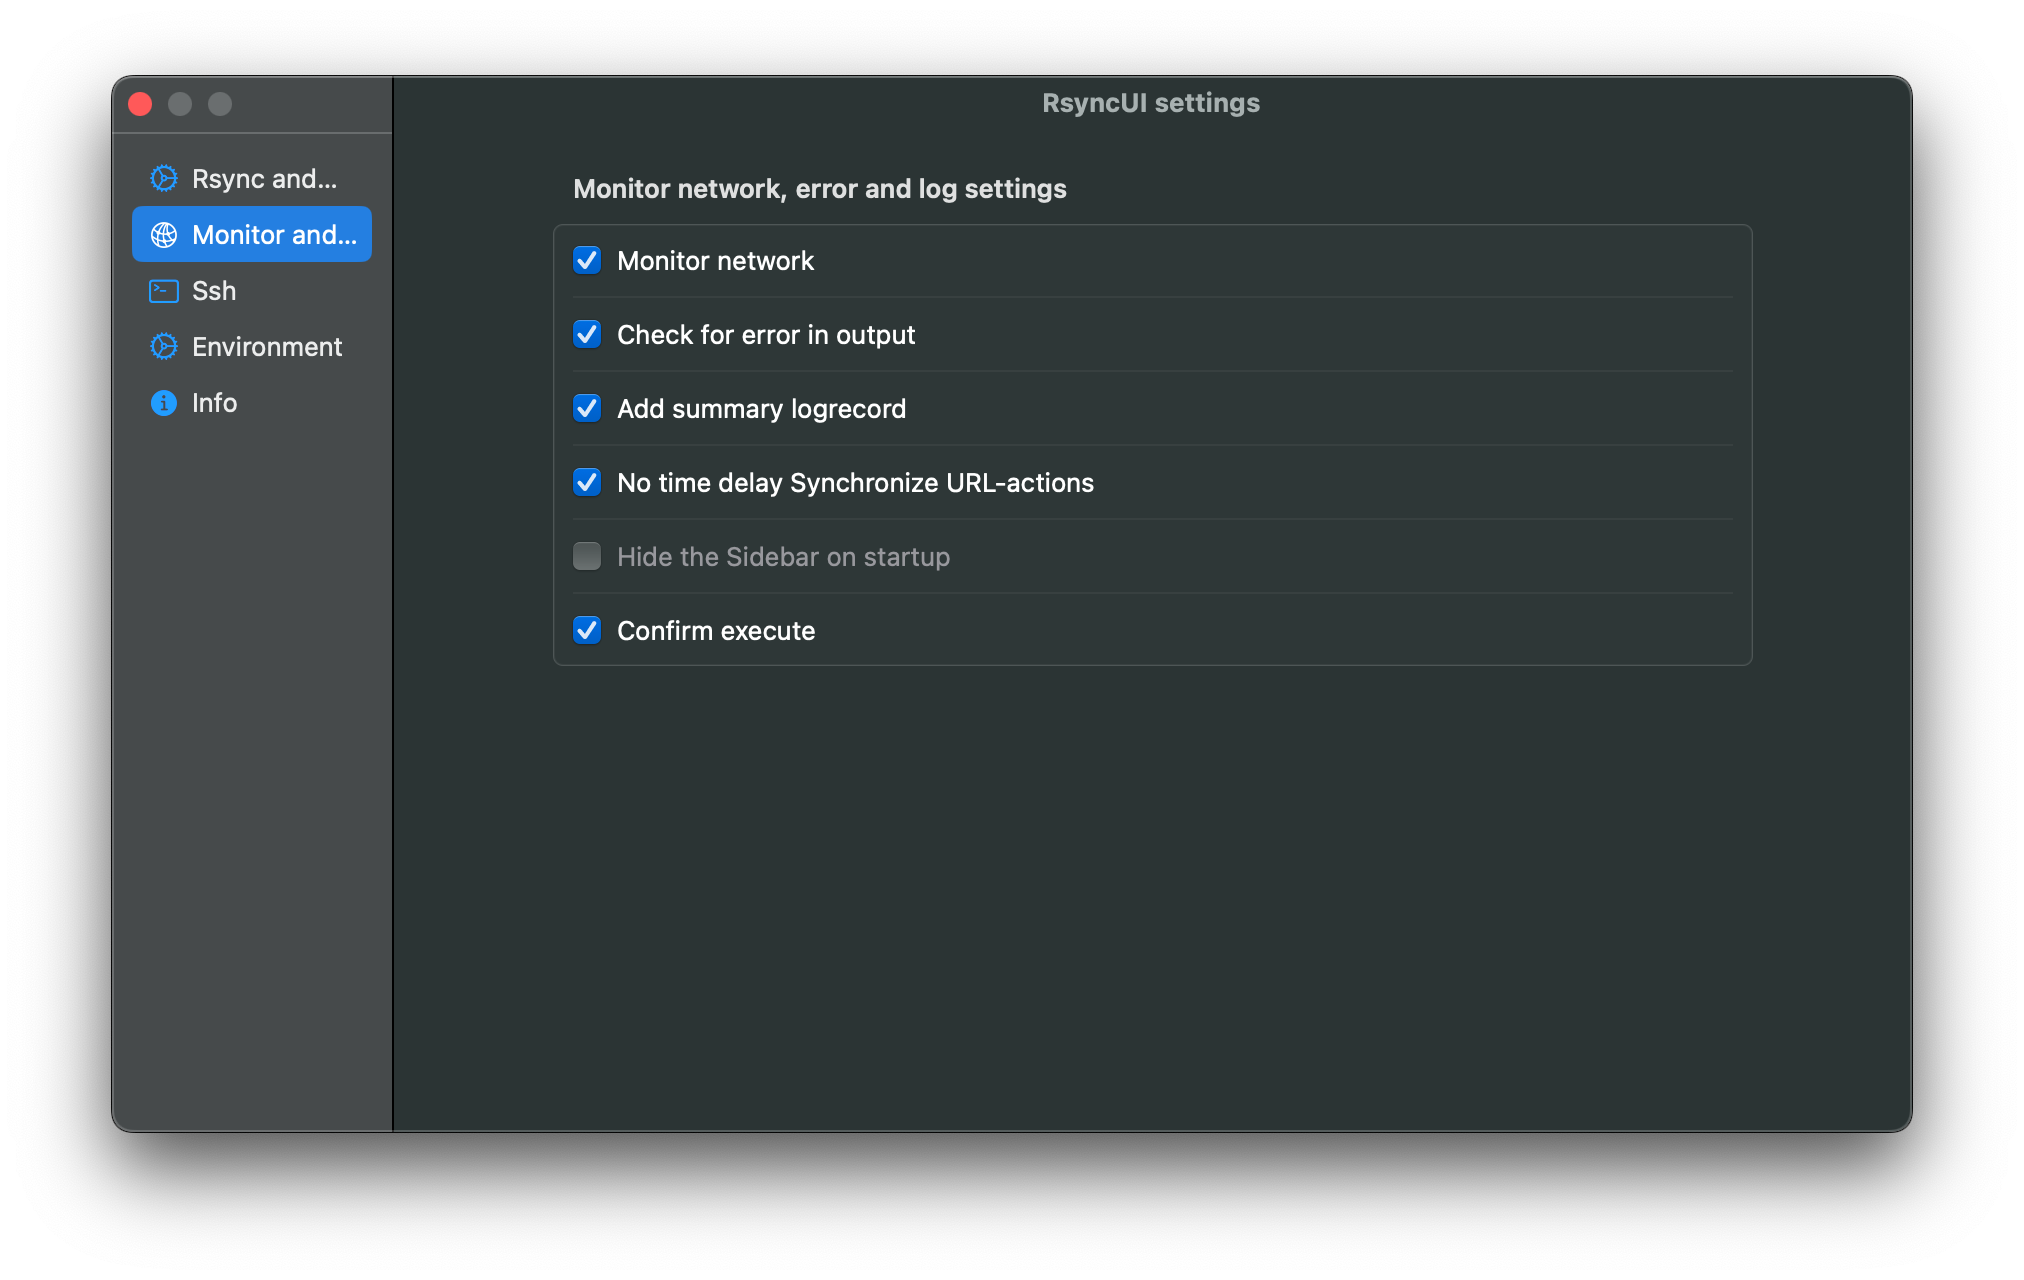
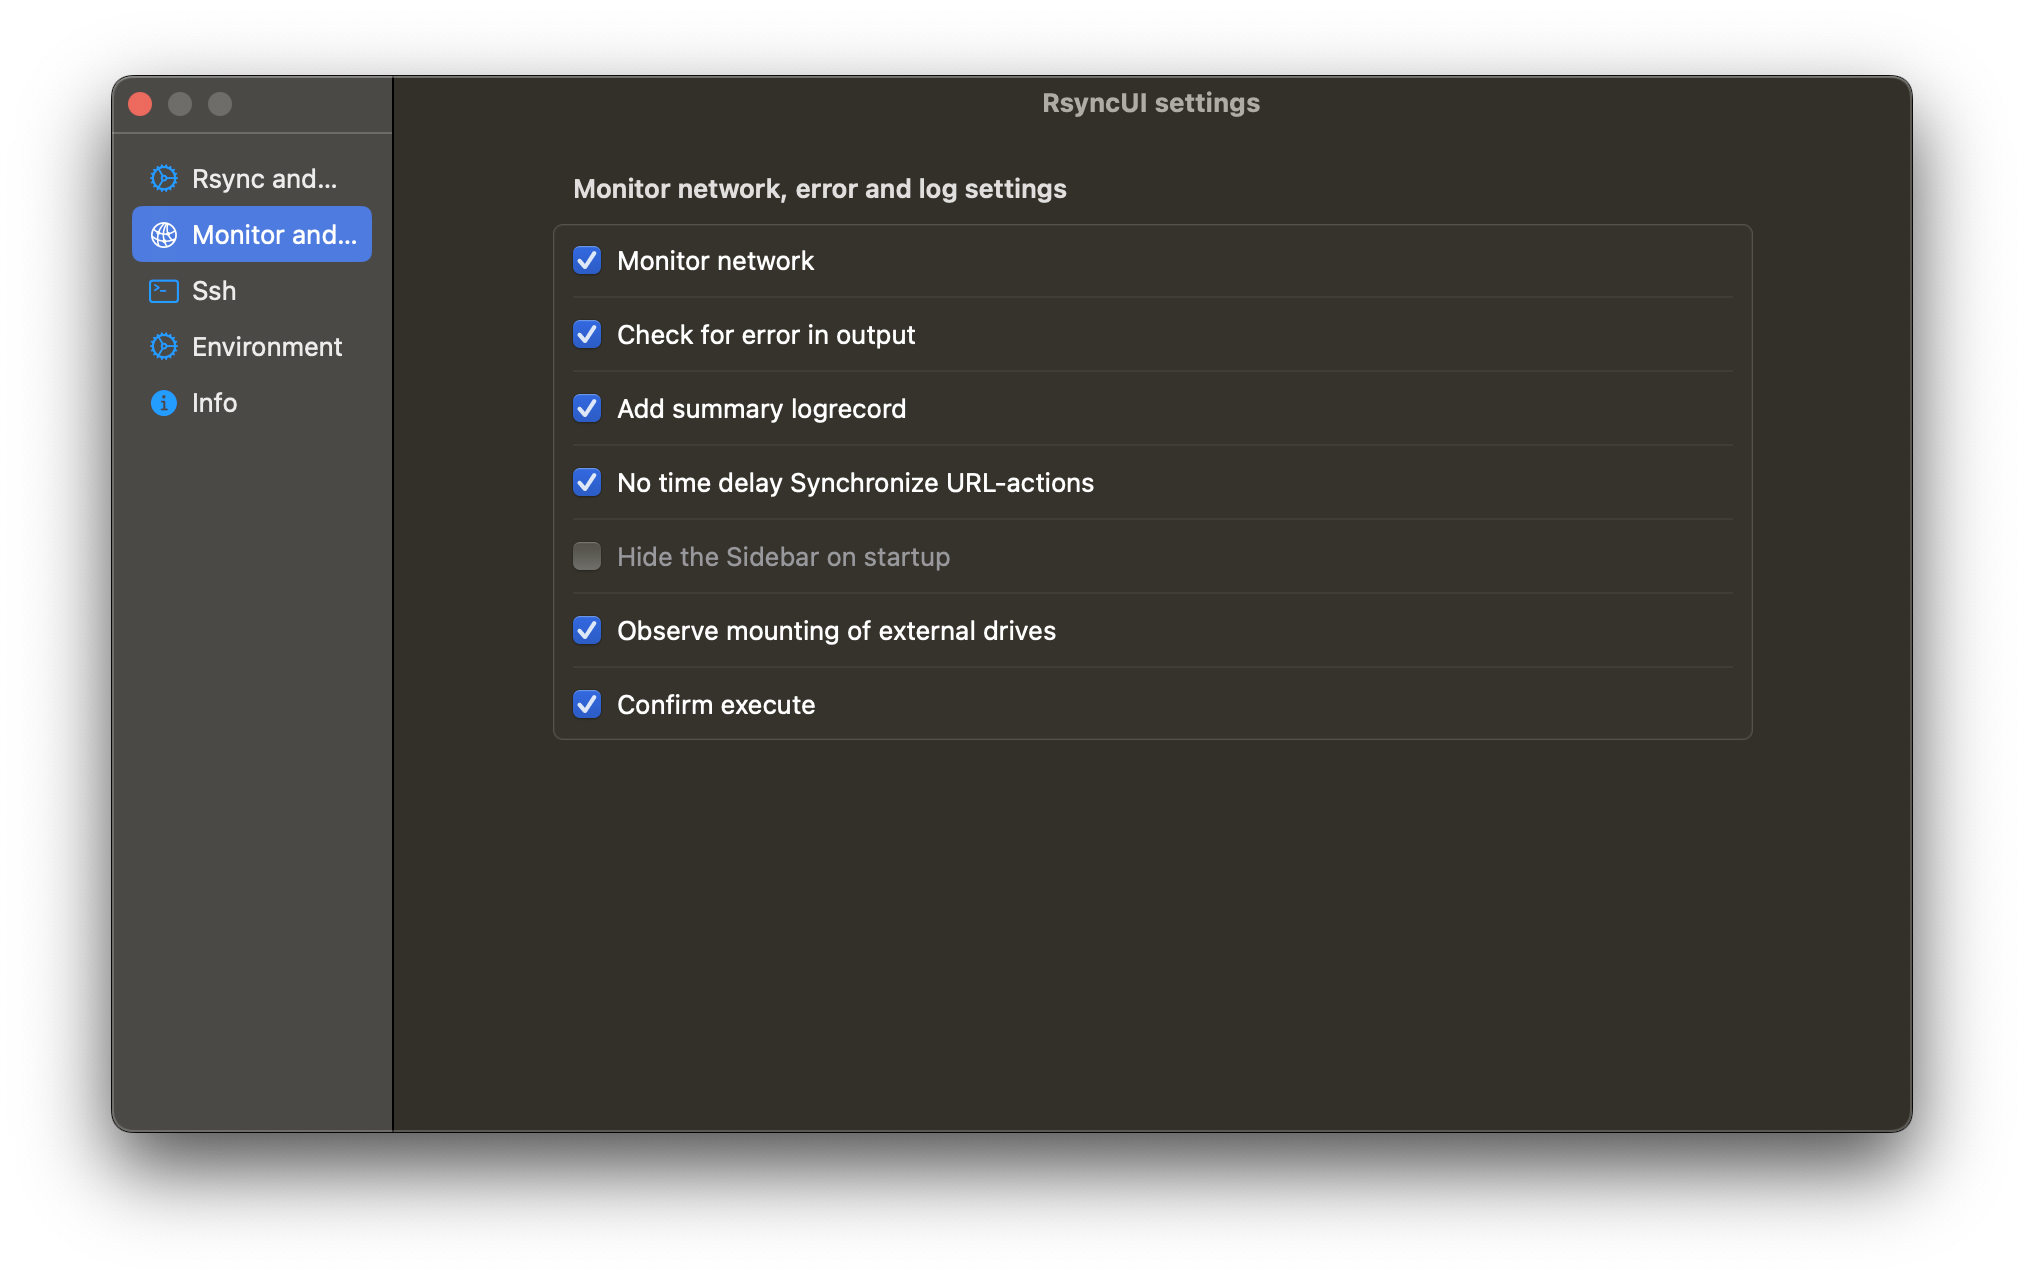
update

diff --git a/content/en/docs/settings/networksettings.md b/content/en/docs/settings/networksettings.md
@@ -31,6 +31,10 @@ Changes to settings are automatically saved.
 
 - the sidebar may be concealed, when on the sidebar will be hidden when RsyncUI start
 
+**Observe mounting of external drives**
+
+- automatic selection of a profile when RsyncUI detects a new mount of a local attached disc
+
 **Confirm Execution:**
 
 - See below.
